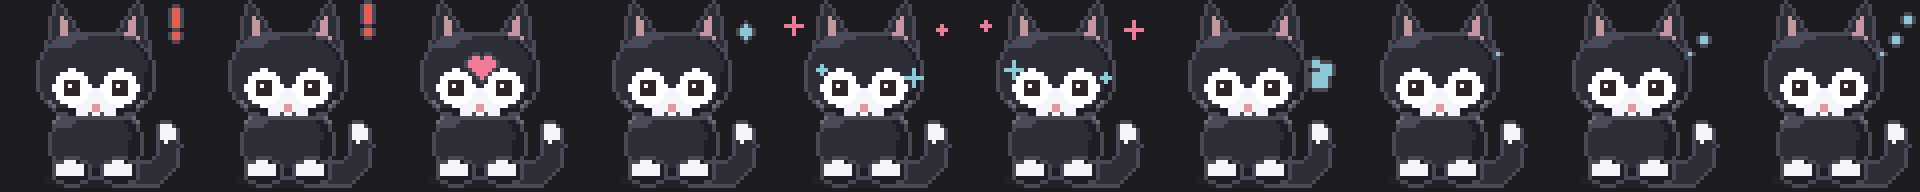
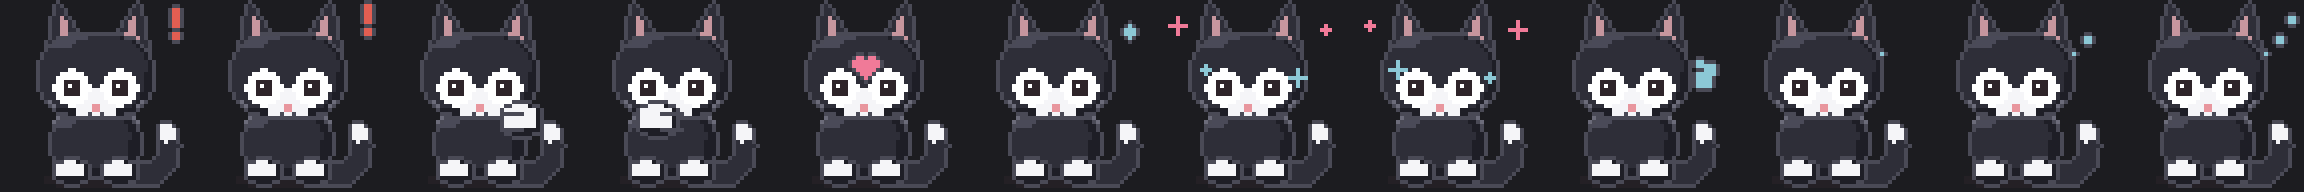
fix: regenerate every theme, and satisfy nullable analysis in the peek demo
Two build breaks, one of them a footgun worth naming.

`python3 tools/generate_art.py` with no arguments regenerates ONLY mono. Every
regeneration in this branch was that bare form, so cream and tuxedo never got
the gripping paw or the newest peek tuning -- and the working tree looked clean
afterwards, because mono genuinely was current. scripts/check-assets.sh is the
thing that loops all three, and it is what should be run after any art change.

And `ok ? p.Origin.X : 0` on a separate TryGetValue result is not something
nullable flow analysis can see through, however obviously safe it reads.

diff --git a/windows/LoafCat/Modules/PeekModule.cs b/windows/LoafCat/Modules/PeekModule.cs
@@ -581,17 +581,23 @@ internal static class PeekDemo
         // cut the face in half.
         double seenTo = t.InkMinX + t.RevealPx;     // right park: 0..seenTo is on screen
         double seenFrom = t.InkMaxX - t.RevealPx;   // left park: seenFrom.. is on screen
+        // Spelled out rather than as a ternary on a separate `ok`: nullable flow
+        // analysis cannot see through that and rejects the dereference.
         bool Lo(string n, out double lo)
         {
-            bool ok = atlas.Parts.TryGetValue(n, out var p);
-            lo = ok ? p.Origin.X : 0;
-            return ok;
+            if (atlas.Parts.TryGetValue(n, out var p)) { lo = p.Origin.X; return true; }
+            lo = 0;
+            return false;
         }
         bool Hi(string n, out double hi)
         {
-            bool ok = atlas.Parts.TryGetValue(n, out var p);
-            hi = ok ? p.Origin.X + p.Size.W : 0;
-            return ok;
+            if (atlas.Parts.TryGetValue(n, out var p))
+            {
+                hi = p.Origin.X + p.Size.W;
+                return true;
+            }
+            hi = 0;
+            return false;
         }
         bool ShowsR(string n) => Hi(n, out double hi) && hi <= seenTo + 1;
         bool HidesR(string n) => !Lo(n, out double lo) || lo >= seenTo;
